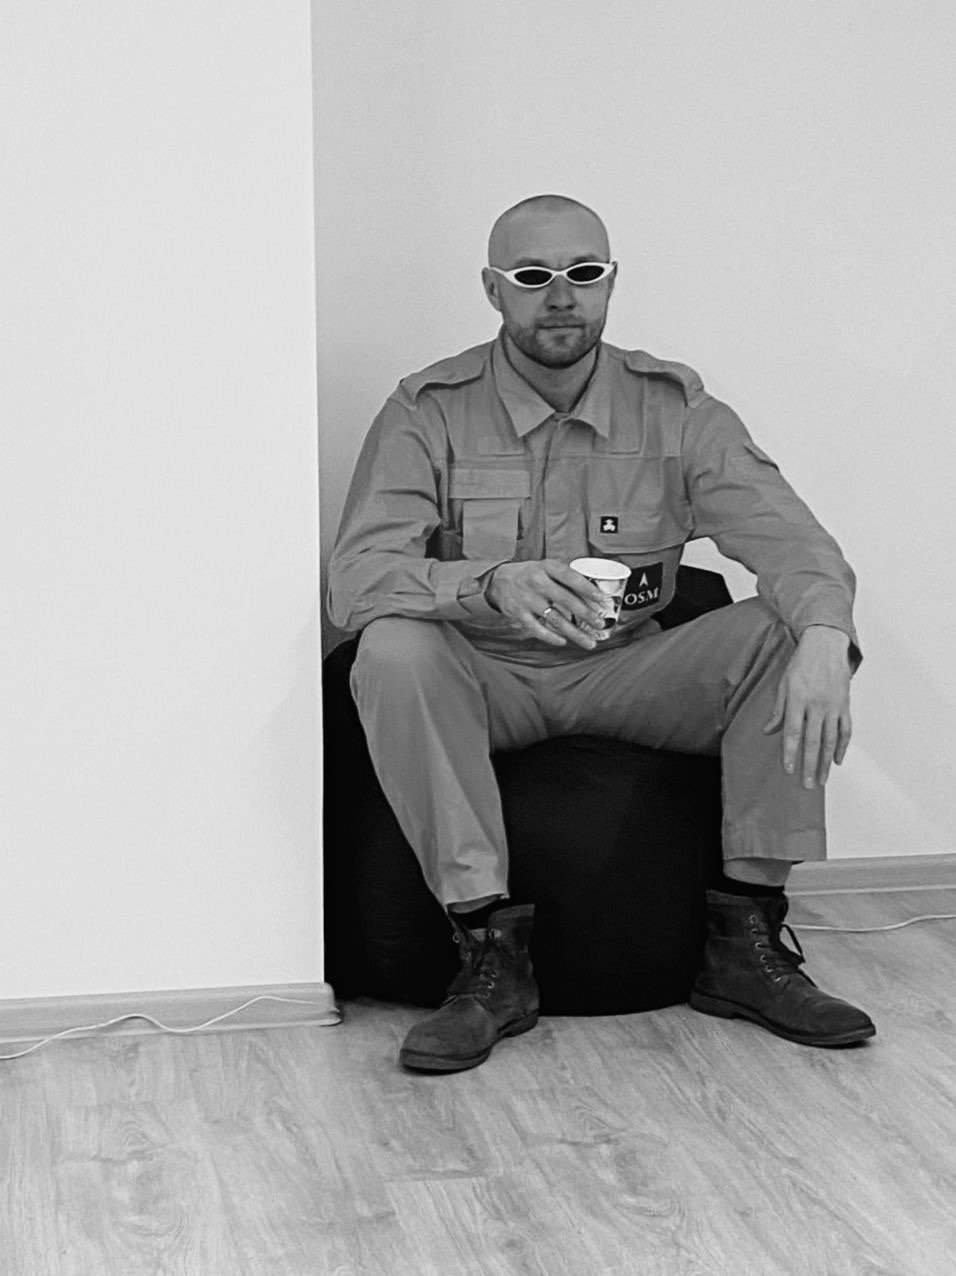
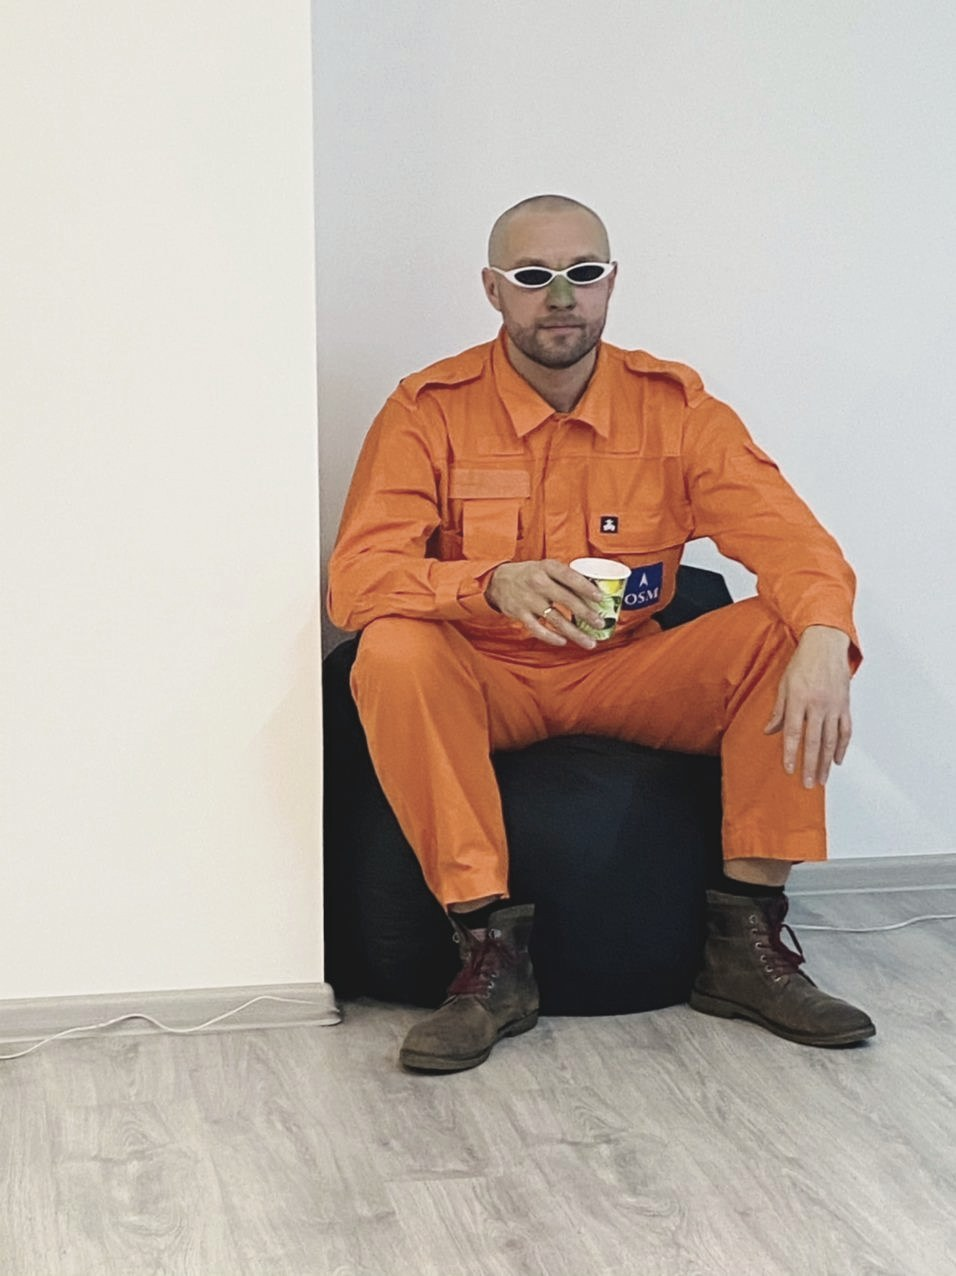
about: lookbook grid layout, orange-suit photo kept in colour (muted)
Claude-Session: https://claude.ai/code/session_01Az9yXZ2dmZTFStFgYTaKbr

Changed region(s): [[0.3337, 0.1528, 0.91, 0.7947], [0.4247, 0.7947, 0.455, 0.8252]]

diff --git a/about/index.html b/about/index.html
@@ -21,124 +21,162 @@
 
   <link rel="preconnect" href="https://fonts.googleapis.com">
   <link rel="preconnect" href="https://fonts.gstatic.com" crossorigin>
-  <link rel="stylesheet" href="https://fonts.googleapis.com/css2?family=Inter:wght@400&family=Cormorant+Garamond:ital,wght@1,300;1,400&family=PT+Serif:ital,wght@0,400;1,400&display=swap">
+  <link rel="stylesheet" href="https://fonts.googleapis.com/css2?family=Inter:wght@400;500&family=Cormorant+Garamond:ital,wght@1,300;1,400&family=PT+Serif:ital,wght@0,400;1,400&display=swap">
   <link rel="stylesheet" href="../assets/reveal.css" />
 
   <style>
     :root { --bg: #ffffff; --ink: #0a0a0a; --dim: #888888; --line: #e6e6e6; }
     * { box-sizing: border-box; }
-    html, body { margin: 0; padding: 0; background: var(--bg); color: var(--ink); overflow-x: hidden; }
+    html, body { margin: 0; padding: 0; background: var(--bg); color: var(--ink); }
     body { font-family: 'PT Serif', Georgia, serif; -webkit-font-smoothing: antialiased; }
+
     .top {
       padding: 40px 24px 0; text-align: center;
       font-family: 'Inter', system-ui, sans-serif; font-size: 11px; letter-spacing: 0.3em; text-transform: uppercase; color: var(--dim);
     }
     .top a, .end a { color: var(--dim); text-decoration: none; transition: color .2s ease; }
     .top a:hover, .end a:hover { color: var(--ink); }
-    header.hero { text-align: center; padding: 96px 24px 72px; }
+    .sep { margin: 0 10px; color: var(--dim); }
+
+    /* Лукбук-сетка: 12 колонок, всё выровнено по ней, без наклонов */
+    .sheet { max-width: 1240px; margin: 0 auto; padding: 0 40px 40px; }
+
+    header.hero {
+      display: grid; grid-template-columns: repeat(12, 1fr); gap: 24px;
+      align-items: end; padding: 88px 0 56px;
+    }
     header.hero h1 {
-      margin: 0;
+      grid-column: 1 / 8; margin: 0;
       font-family: 'Cormorant Garamond', 'Times New Roman', Georgia, serif;
       font-style: italic; font-weight: 300;
-      font-size: clamp(56px, 9vw, 120px); line-height: 1; letter-spacing: -0.01em;
+      font-size: clamp(48px, 7vw, 92px); line-height: 0.95; letter-spacing: -0.015em;
     }
-
-    main { max-width: 620px; margin: 0 auto; padding: 0 24px 40px; }
-    .block { position: relative; padding: 24px 0 40px; }
-    .block p { margin: 0 0 18px; font-size: 17px; line-height: 1.7; text-wrap: pretty; }
-    .block p:last-child { margin-bottom: 0; }
-    .block .big {
-      font-family: 'Cormorant Garamond', 'Times New Roman', Georgia, serif; font-style: italic; font-weight: 400;
-      font-size: clamp(30px, 4.2vw, 42px); line-height: 1.1; letter-spacing: -0.01em; text-align: center; padding: 24px 0 0;
+    header.hero .tag {
+      grid-column: 9 / 13; padding-bottom: 12px;
+      font-family: 'Inter', system-ui, sans-serif; font-size: 11px; letter-spacing: 0.3em; text-transform: uppercase; color: var(--dim);
     }
+    .rule { grid-column: 1 / 13; height: 1px; background: var(--line); margin-top: 28px; }
 
-    /* фото: на узких экранах — в потоке, разной ширины; на широких — на полях */
-    .ph { margin: 0 0 32px; }
-    .ph img { display: block; width: 100%; height: auto; }
-    .ph .cap {
+    .grid { display: grid; grid-template-columns: repeat(12, 1fr); gap: 24px 24px; }
+    .row { margin-bottom: 72px; }
+
+    figure { margin: 0; }
+    figure img { display: block; width: 100%; height: auto; }
+    figcaption {
       margin-top: 10px;
-      font-family: 'Inter', system-ui, sans-serif; font-size: 10px; letter-spacing: 0.3em; text-transform: uppercase; color: var(--dim);
+      font-family: 'Inter', system-ui, sans-serif; font-size: 10px; letter-spacing: 0.25em; text-transform: uppercase; color: var(--dim);
     }
-    .p1 { width: 78%; margin-left: auto; margin-right: -8%; }
-    .p2 { width: 56%; margin-left: 0; transform: rotate(-2deg); }
-    .p3 { width: 62%; margin-left: auto; margin-right: 4%; }
-    .p4 { width: 70%; margin-left: -6%; transform: rotate(1.5deg); }
-    .p5 { width: 48%; margin-left: auto; margin-right: 0; }
-    .p6 { width: 100%; margin: 0 -6% 32px; width: 112%; }
 
-    @media (min-width: 1100px) {
-      .ph { margin: 0; position: relative; }
-      .ph .cap { position: absolute; left: 0; top: 100%; margin-top: 12px; white-space: nowrap; }
-      .p1 { float: right; width: 320px; margin: -80px -380px 0 0; transform: none; }
-      .p2 { float: left;  width: 240px; margin: 20px 0 0 -340px; transform: rotate(-2.5deg); }
-      .p3 { float: right; width: 240px; margin: -20px -340px 0 0; transform: rotate(1.5deg); }
-      .p4 { float: left;  width: 300px; margin: -40px 0 0 -400px; transform: rotate(2deg); }
-      .p5 { float: right; width: 220px; margin: 120px -300px 0 0; transform: rotate(-1.5deg); clear: right; }
-      .p6 { float: none; width: 880px; margin: 48px 0 0 -130px; transform: none; }
-      .p6 .cap { position: static; margin-top: 12px; text-align: right; }
-      .block::after { content: ''; display: block; clear: both; }
+    .text p {
+      margin: 0 0 14px; font-size: 15px; line-height: 1.65; text-wrap: pretty;
+    }
+    .text p:last-child { margin-bottom: 0; }
+    .lead { font-size: 16.5px; line-height: 1.6; }
+
+    /* расстановка по сетке */
+    .c1-5  { grid-column: 1 / 5; }
+    .c1-6  { grid-column: 1 / 7; }
+    .c1-7  { grid-column: 1 / 8; }
+    .c2-6  { grid-column: 2 / 7; }
+    .c4-8  { grid-column: 4 / 9; }
+    .c5-9  { grid-column: 5 / 9; }
+    .c7-13 { grid-column: 7 / 13; }
+    .c8-13 { grid-column: 8 / 13; }
+    .c9-13 { grid-column: 9 / 13; }
+    .c1-13 { grid-column: 1 / 13; }
+    .pad-top { padding-top: 56px; }
+    .pad-top-lg { padding-top: 120px; }
+
+    .quote {
+      grid-column: 4 / 10; margin: 0; padding: 96px 0 88px; text-align: center;
+      font-family: 'Cormorant Garamond', 'Times New Roman', Georgia, serif;
+      font-style: italic; font-weight: 400; font-size: clamp(28px, 3.4vw, 44px); line-height: 1.15;
     }
 
     .end {
-      text-align: center; padding: 72px 24px 64px;
+      padding: 24px 24px 64px; text-align: center;
       font-family: 'Inter', system-ui, sans-serif; font-size: 12px; letter-spacing: 0.2em; text-transform: uppercase;
     }
-    @media (max-width: 600px) {
-      .top { padding-top: 28px; letter-spacing: 0.2em; }
-      header.hero { padding: 72px 16px 48px; }
-      main { padding: 0 20px 24px; }
-      .block p { font-size: 16px; }
-      .p1 { width: 86%; margin-right: -4%; }
-      .p4 { width: 80%; margin-left: -4%; }
-      .p6 { width: 108%; margin-left: -4%; margin-right: -4%; }
+
+    @media (max-width: 900px) {
+      .sheet { padding: 0 20px 24px; }
+      header.hero { padding: 64px 0 40px; gap: 16px; }
+      header.hero h1 { grid-column: 1 / 13; }
+      header.hero .tag { grid-column: 1 / 13; padding-bottom: 0; }
+      .grid { gap: 20px; }
+      .row { margin-bottom: 40px; }
+      .c1-5, .c1-6, .c1-7, .c2-6, .c4-8, .c5-9, .c7-13, .c8-13, .c9-13 { grid-column: 1 / 13; }
+      .pad-top, .pad-top-lg { padding-top: 0; }
+      .quote { grid-column: 1 / 13; padding: 56px 0 48px; }
+      .text p { font-size: 16px; }
+      /* на узком — часть фото уже полной ширины, чтобы не было монотонности */
+      .narrow { width: 68%; }
+      .narrow-r { width: 68%; margin-left: auto; }
     }
-    .sep { margin: 0 10px; color: var(--dim); }
   </style>
 </head>
 <body>
   <div class="top r"><a href="/">← назад</a></div>
 
-  <header class="hero">
-    <h1 class="r" style="--i:1">Обо мне</h1>
-  </header>
+  <div class="sheet">
+    <header class="hero">
+      <h1 class="r" style="--i:1">Обо мне</h1>
+      <div class="tag r" style="--i:2">Дмитрий Антиосов · портрет в шести кадрах</div>
+      <div class="rule r" style="--i:3"></div>
+    </header>
 
-  <main>
-    <section class="block">
-      <figure class="ph p1 r" style="--i:2">
+    <!-- 1: крупный кадр слева, текст справа -->
+    <section class="grid row">
+      <figure class="c1-7 r">
         <img src="img/02.jpg" alt="Дмитрий Антиосов у гостиницы «Космос»" width="1050" height="1400" loading="eager" decoding="async" />
-        <figcaption class="cap">01 · Москва</figcaption>
+        <figcaption>01 · Москва</figcaption>
       </figure>
-      <p class="r" style="--i:3">Заслуженный маркетолог России, почетный член Гильдии Креативных Директоров, член Союза Топ-блогеров России, почетный кавалер ордена Довлатова, ментор, энергокоуч, доказанный ченеллер, потомственный дворянин, русский.</p>
-      <figure class="ph p2 r">
-        <img src="img/01.jpg" alt="Дмитрий Антиосов" width="956" height="1276" loading="lazy" decoding="async" />
-        <figcaption class="cap">02</figcaption>
-      </figure>
+      <div class="text c8-13 pad-top-lg r" style="--i:1">
+        <p class="lead">Заслуженный маркетолог России, почетный член Гильдии Креативных Директоров, член Союза Топ-блогеров России, почетный кавалер ордена Довлатова, ментор, энергокоуч, доказанный ченеллер, потомственный дворянин, русский.</p>
+      </div>
     </section>
 
-    <section class="block">
-      <figure class="ph p3 r">
+    <!-- 2: три кадра в ряд -->
+    <section class="grid row">
+      <figure class="c1-5 narrow r">
+        <img src="img/01.jpg" alt="Дмитрий Антиосов в оранжевом костюме" width="956" height="1276" loading="lazy" decoding="async" />
+        <figcaption>02</figcaption>
+      </figure>
+      <figure class="c5-9 pad-top r" style="--i:1">
         <img src="img/03.jpg" alt="Дмитрий Антиосов на сцене" width="960" height="1280" loading="lazy" decoding="async" />
-        <figcaption class="cap">03 · Сцена</figcaption>
+        <figcaption>03 · Сцена</figcaption>
       </figure>
-      <p class="r">Автор десятков научных постов, двух книг, лучшего стихотворения России по версии «TikTok Awards 2021». Участник форумов и конференций, выставок и юбилеев. Управленец года, 2019, по версии Arenum Community Team. Консультирую СЕО и фаундеров международных компаний по чувствительным вопросам (NDA).</p>
-      <figure class="ph p4 r">
-        <img src="img/04.jpg" alt="Дмитрий Антиосов" width="853" height="1280" loading="lazy" decoding="async" />
-        <figcaption class="cap">04</figcaption>
-      </figure>
-      <figure class="ph p5 r">
-        <img src="img/05.jpg" alt="Дмитрий Антиосов" width="768" height="1196" loading="lazy" decoding="async" />
-        <figcaption class="cap">05</figcaption>
+      <figure class="c9-13 narrow-r r" style="--i:2">
+        <img src="img/05.jpg" alt="Дмитрий Антиосов в смокинге" width="768" height="1196" loading="lazy" decoding="async" />
+        <figcaption>04</figcaption>
       </figure>
     </section>
 
-    <section class="block">
-      <p class="big r">Думаю, что это еще не все.</p>
-      <figure class="ph p6 r">
-        <img src="img/06.jpg" alt="Дмитрий Антиосов, портрет" width="1400" height="933" loading="lazy" decoding="async" />
-        <figcaption class="cap">06 · Портрет</figcaption>
+    <!-- 3: текст слева, кадр справа -->
+    <section class="grid row">
+      <div class="text c1-6 pad-top r">
+        <p>Автор десятков научных постов, двух книг, лучшего стихотворения России по версии «TikTok Awards 2021». Участник форумов и конференций, выставок и юбилеев. Управленец года, 2019, по версии Arenum Community Team.</p>
+        <p>Консультирую СЕО и фаундеров международных компаний по чувствительным вопросам (NDA).</p>
+      </div>
+      <figure class="c7-13 r" style="--i:1">
+        <img src="img/04.jpg" alt="Дмитрий Антиосов у бильярдного стола" width="853" height="1280" loading="lazy" decoding="async" />
+        <figcaption>05</figcaption>
       </figure>
     </section>
-  </main>
+
+    <!-- 4: фраза -->
+    <section class="grid">
+      <p class="quote r">Думаю, что это еще не все.</p>
+    </section>
+
+    <!-- 5: финальный портрет во всю сетку -->
+    <section class="grid row">
+      <figure class="c1-13 r">
+        <img src="img/06.jpg" alt="Портрет Дмитрия Антиосова" width="1400" height="933" loading="lazy" decoding="async" />
+        <figcaption>06 · Портрет</figcaption>
+      </figure>
+    </section>
+  </div>
 
   <div class="end r"><a href="/">← назад</a></div>
 
